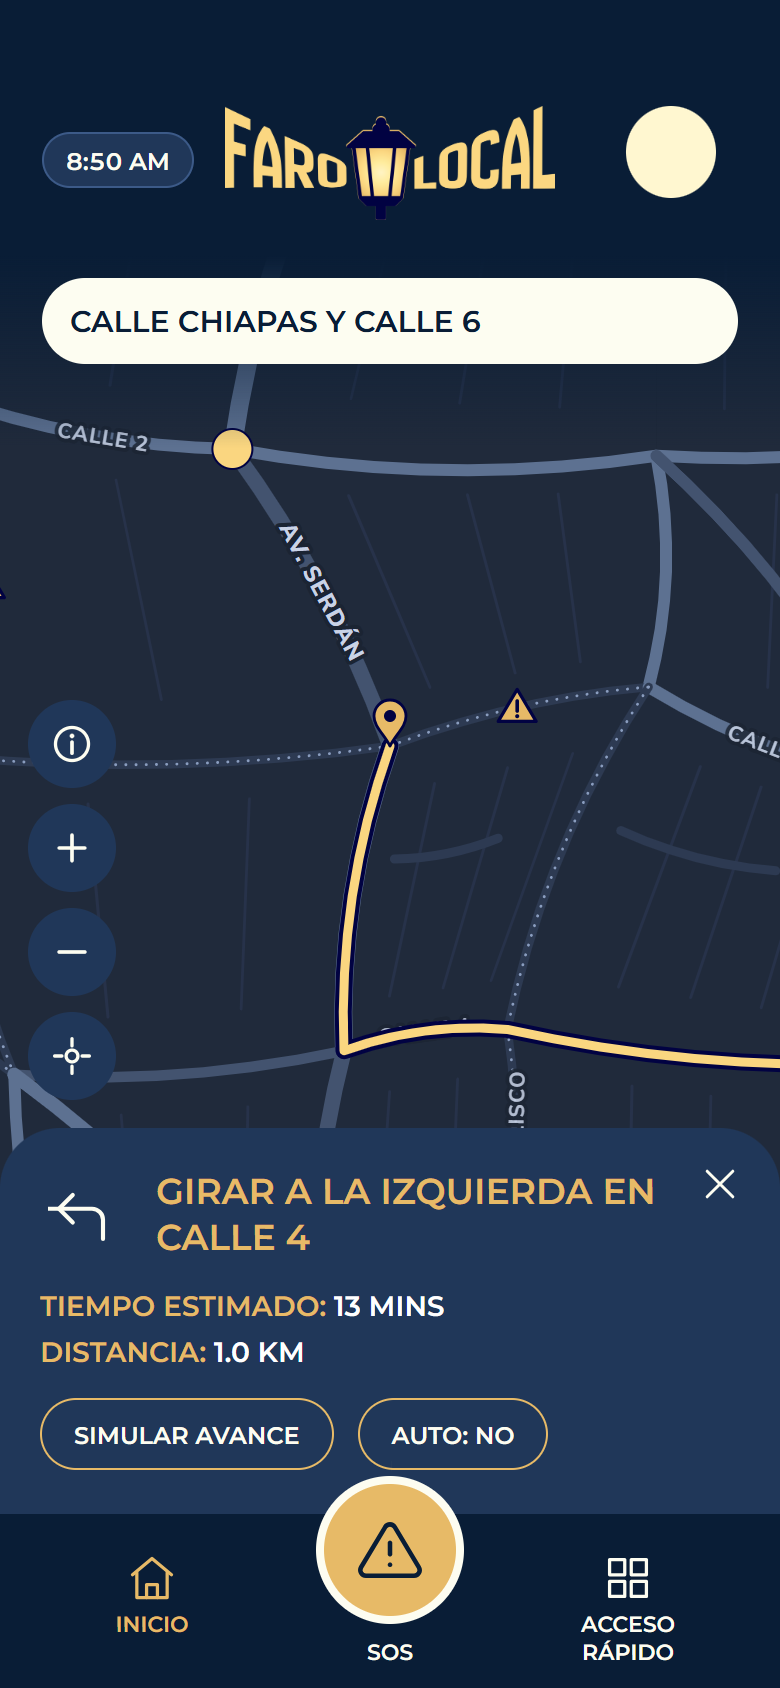
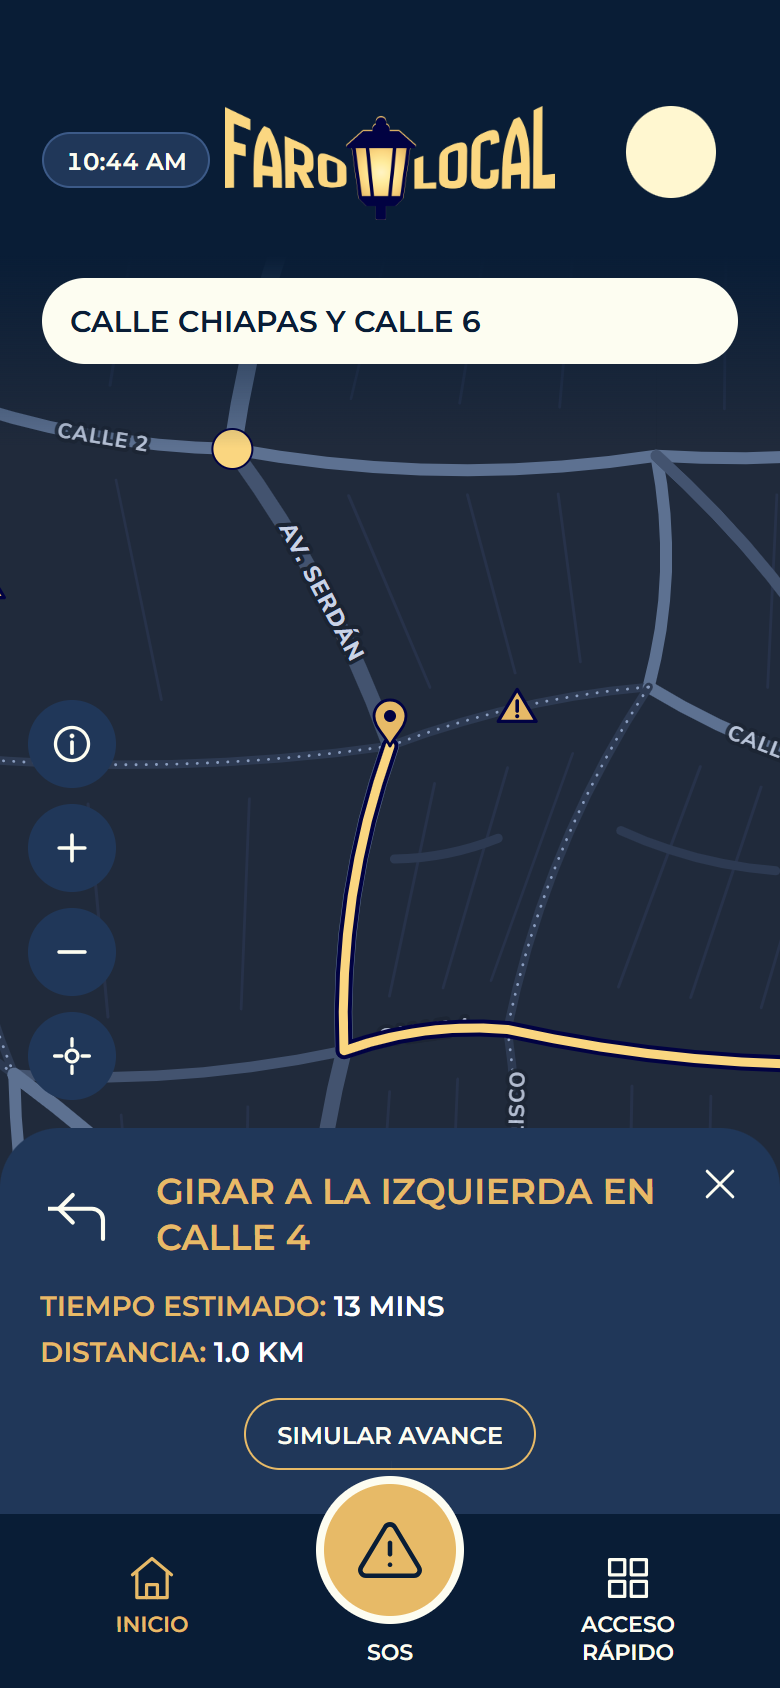
SIn botón del auto en la ruta

Changed region(s): [[0.0923, 0.8318, 0.7077, 0.8626], [0.0923, 0.0616, 0.2769, 0.1232]]

diff --git a/frontend/app/ruta.js b/frontend/app/ruta.js
@@ -14,7 +14,7 @@
   let sel = 0;                       // 0 = Ruta Faro, 1 = alternativa
   let enCurso = 0;                   // evita que una respuesta vieja pise a una nueva
   let destinoNombre = "";
-  let nav = null;                    // { r, p, auto, timer, cupones: Map(negocio_id → [titulos]) }
+  let nav = null;                    // { r, p, cupones: Map(negocio_id → [titulos]) }
   let sugs = [];                     // sugerencias en pantalla
   let activa = -1;                   // sugerencia resaltada con el teclado
 
@@ -187,7 +187,7 @@
       App.toast(n === 1 ? "Obtuviste 1 cupón. Lo ves en MIS CUPONES." : `Obtuviste ${n} cupones. Los ves en MIS CUPONES.`);
     }
     fase = "nav";
-    nav = { r, p: 0, auto: false, timer: null, cupones };
+    nav = { r, p: 0, cupones };
     App.mods.cupones.recargar();
     App.mapa.dibujarRutas([r], { activa: 0 });
     App.mapa.marcarCupones(r.faros_en_ruta.filter((f) => cupones.has(f.id)).map((f) => f.nodo_id));
@@ -212,8 +212,7 @@
       fila("nav-acciones",
         llego
           ? h("button", { class: "pill-dorada", type: "button", onClick: () => terminar(), text: "TERMINAR" })
-          : [h("button", { class: "pill-borde", type: "button", onClick: () => avanzar(), text: "SIMULAR AVANCE" }),
-             h("button", { class: "pill-borde", type: "button", "aria-pressed": String(nav.auto), onClick: alternarAuto, text: nav.auto ? "AUTO: SÍ" : "AUTO: NO" })]));
+          : h("button", { class: "pill-borde", type: "button", onClick: () => avanzar(), text: "SIMULAR AVANCE" })));
     tarjeta.hidden = false;
     App.ajustarInferior();
   }
@@ -230,18 +229,10 @@
       const cup = nav.cupones.get(f.id);
       App.toast(cup ? `Estás junto a ${f.nombre}: tienes un cupón.` : `Estás junto a ${f.nombre}.`, "info");
     }
-    if (nav.p >= nav.r.nodos.length - 1) pararAuto();
-    pintarNav();
-  }
-  function pararAuto() { if (nav) { clearInterval(nav.timer); nav.timer = null; nav.auto = false; } }
-  function alternarAuto() {
-    if (!nav) return;
-    if (nav.auto) pararAuto(); else { nav.auto = true; nav.timer = setInterval(avanzar, 2000); }
     pintarNav();
   }
 
   function terminar() {
-    pararAuto();
     nav = null;
     limpiarRuta(true);
   }
@@ -290,7 +281,7 @@
     /** Fija el destino (desde la ficha de un Faro o desde "Ir aquí") y calcula. */
     irA(n) {
       const z = App.mapa.zona, f = z && z.faros.find((x) => x.nodo_id === n);
-      pararAuto(); nav = null;
+      nav = null;
       App.estado.destino = n;
       destinoNombre = f ? f.nombre : nodo(n).nombre;
       $("buscador").readOnly = false;

diff --git a/frontend/app/app.css b/frontend/app/app.css
@@ -283,7 +283,6 @@ li[aria-selected="true"] .sug-item { color: var(--dorado); }
 .pill-dorada, .pill-borde { position: relative; height: 36px; padding: 0 22px; border-radius: 29px; font: 600 14px var(--fuente-titulo); cursor: pointer; white-space: nowrap; }
 .pill-dorada { border: 0; background: var(--dorado); color: var(--marino); }
 .pill-borde { border: 1.5px solid var(--dorado); background: none; color: var(--marfil); font-size: 12px; padding: 0 16px; }
-.pill-borde[aria-pressed="true"] { background: var(--dorado); color: var(--marino); }
 .pill-dorada::after, .pill-borde::after { content: ""; position: absolute; inset: -4px -4px; }
 .pill-dorada[aria-disabled="true"] { opacity: .55; }
 .ruta-cargando { margin: 22px 0; font: 600 15px var(--fuente-titulo); color: var(--marfil); text-align: center; }
@@ -295,7 +294,7 @@ li[aria-selected="true"] .sug-item { color: var(--dorado); }
 .nav-flecha--izquierda svg { transform: scaleX(-1); }
 .nav-texto { margin: 0; font: 600 18px/23px var(--fuente-titulo); color: var(--dorado); }
 .nav-x { position: absolute; top: 6px; right: 8px; width: 44px; height: 44px; padding: 0; border: 0; background: none; color: var(--marfil); display: grid; place-items: center; cursor: pointer; }
-.nav-acciones { display: flex; gap: 12px; margin-top: 14px; }
+.nav-acciones { display: flex; justify-content: center; gap: 12px; margin-top: 14px; }
 .punto-tocado { display: flex; align-items: center; justify-content: space-between; gap: 10px; flex-wrap: wrap; }
 .punto-tocado p { margin: 0; flex: 1 1 100%; }
 .punto-tocado .fila { flex: 1 1 100%; }
